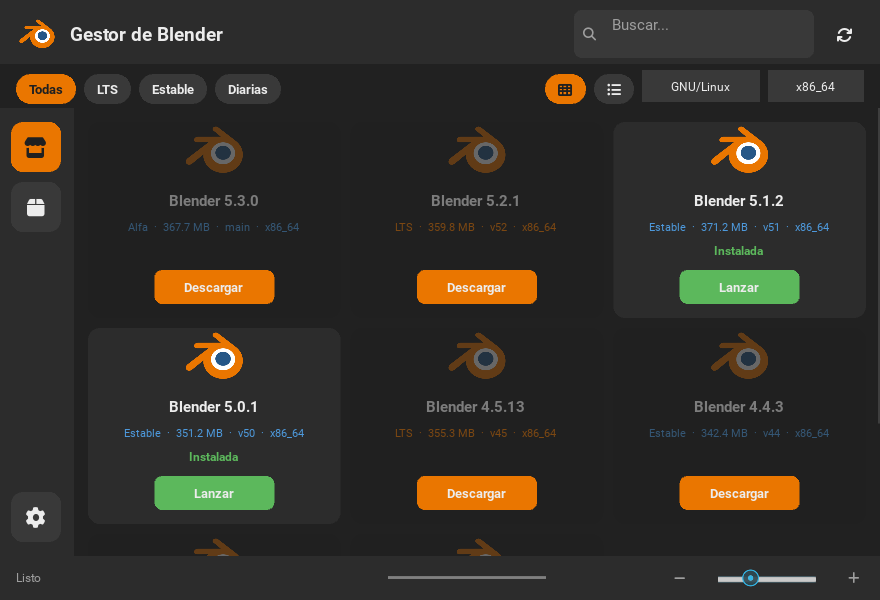
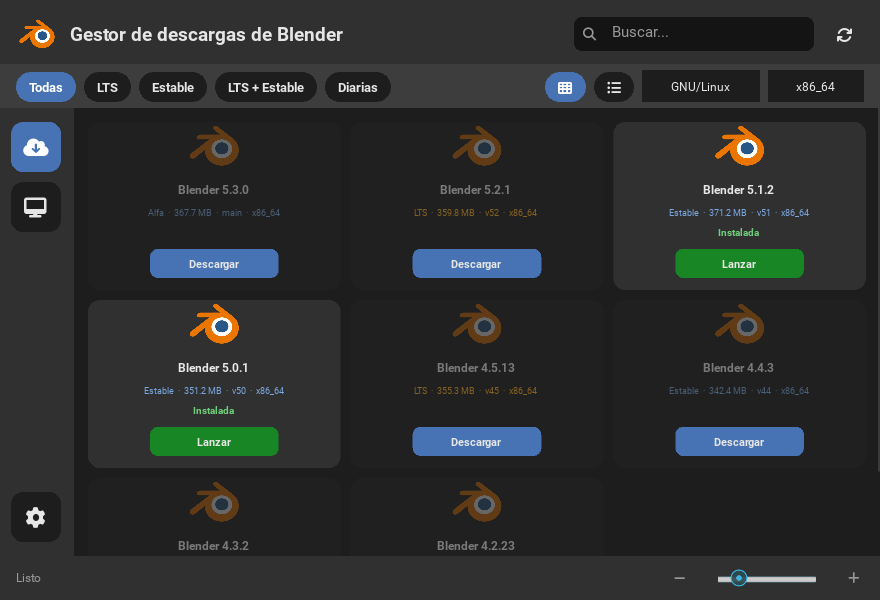
feat: profundidad de grises estilo Blender, iconos y barra de filtros
Jerarquia de grises (fondo oscuro, paneles/ barras y botones como pestanas, campos hundidos), botones neutros grises con pulsado azul, buscador mas bajo, barra de filtros clara con botones oscuros, iconos de nube (tienda) y ordenador (instaladas) y panel de ajustes con fondo propio.

diff --git a/src/ui/theme.py b/src/ui/theme.py
@@ -1,8 +1,15 @@
 """Paleta de colores, tipografías y registro de la fuente de iconos.
 
 Los colores imitan el *tema oscuro por defecto* de Blender (definido en el
-archivo ``userdef_default_theme.c`` de su código fuente). De ahí salen los
-grises, el azul de selección (#4772b3) y los colores de estado.
+archivo ``userdef_default_theme.c`` de su código fuente).
+
+La idea de profundidad es la de Blender:
+
+* el **fondo** de la ventana es el gris más oscuro;
+* las **barras** (cabecera, barra lateral y de estado) y los **paneles/tarjetas**
+  van un escalón por encima;
+* los **botones** neutros son gris oscuro, como las pestañas de Blender;
+* los **campos de texto** quedan hundidos (más oscuros que su panel).
 
 Todos los valores van en RGBA entre 0 y 1, como espera Kivy.
 """
@@ -11,12 +18,14 @@ from kivy.core.text import LabelBase
 
 from paths import ASSETS_DIR
 
-# --- Grises base del tema de Blender ---
-BG = (0x1D / 255, 0x1D / 255, 0x1D / 255, 1)          # fondo de ventana / barras
-SURFACE = (0x30 / 255, 0x30 / 255, 0x30 / 255, 1)     # paneles y tarjetas
-SURFACE_ALT = (0x54 / 255, 0x54 / 255, 0x54 / 255, 1)  # botones / widgets
-BORDER = (0x3D / 255, 0x3D / 255, 0x3D / 255, 1)      # contornos
-FIELD = (0x1D / 255, 0x1D / 255, 0x1D / 255, 1)       # campos de texto
+# --- Jerarquía de grises (de más profundo a más elevado) ---
+BG = (0x1D / 255, 0x1D / 255, 0x1D / 255, 1)        # fondo de la ventana (el más oscuro)
+FIELD = (0x14 / 255, 0x14 / 255, 0x14 / 255, 1)     # campos de texto (hundidos)
+BUTTON = (0x1D / 255, 0x1D / 255, 0x1D / 255, 1)    # botones neutros (como pestañas de Blender)
+SURFACE = (0x30 / 255, 0x30 / 255, 0x30 / 255, 1)   # paneles y tarjetas
+CHROME = (0x30 / 255, 0x30 / 255, 0x30 / 255, 1)    # cabecera, barra lateral y de estado
+SURFACE_ALT = (0x3D / 255, 0x3D / 255, 0x3D / 255, 1)  # hover / contornos suaves
+BORDER = (0x3D / 255, 0x3D / 255, 0x3D / 255, 1)
 
 # --- Texto ---
 TEXT = (0xE6 / 255, 0xE6 / 255, 0xE6 / 255, 1)
@@ -27,7 +36,9 @@ TEXT_SEL = (1.0, 1.0, 1.0, 1)
 ACCENT = (0x47 / 255, 0x72 / 255, 0xB3 / 255, 1)      # azul de selección
 ACCENT_DARK = (0x3A / 255, 0x5F / 255, 0x96 / 255, 1)
 SUCCESS = (0x18 / 255, 0x86 / 255, 0x25 / 255, 1)     # verde (lanzar)
+SUCCESS_DARK = (0x0F / 255, 0x5A / 255, 0x19 / 255, 1)
 DANGER = (0x99 / 255, 0x16 / 255, 0x16 / 255, 1)      # rojo (desinstalar)
+DANGER_DARK = (0x6E / 255, 0x10 / 255, 0x10 / 255, 1)
 INFO = (0x28 / 255, 0x48 / 255, 0x7D / 255, 1)        # azul apagado (fondos)
 WARNING = (0xFF / 255, 0xAF / 255, 0x23 / 255, 1)     # naranja (LTS)
 

diff --git a/src/ui/widgets.py b/src/ui/widgets.py
@@ -34,7 +34,7 @@ from services import api, detector, installed as installed_service, settings as 
 from services.downloader import Downloader
 from services.extractor import extract
 from services.launcher import Launcher
-from ui.theme import MUTED, SURFACE_ALT
+from ui.theme import ACCENT, BUTTON, MUTED
 from ui.tooltip import HoverBehavior
 
 # Etiquetas visibles del selector de sistema operativo -> identificador interno
@@ -64,9 +64,11 @@ class SideButton(HoverBehavior, ToggleButton):
 class CardButton(HoverBehavior, Button):
     """Botón de acción dentro de las tarjetas (descargar, lanzar, examinar...)."""
 
-    # Color de fondo configurable. Por defecto gris (como los widgets de
-    # Blender); descargar usa azul, lanzar verde y desinstalar rojo.
-    button_color = ListProperty(list(SURFACE_ALT))
+    # Colores configurables: por defecto un botón neutro oscuro (como las
+    # pestañas de Blender) que se ilumina en azul al pulsarlo. Descargar,
+    # lanzar y desinstalar sobrescriben ambos colores.
+    button_color = ListProperty(list(BUTTON))
+    pressed_color = ListProperty(list(ACCENT))
 
 
 class HoverButton(HoverBehavior, Button):

diff --git a/src/ui/icons.py b/src/ui/icons.py
@@ -4,8 +4,8 @@ Cada constante es un carácter Unicode privado de la fuente. Se usan desde el
 .kv así:  text: icons.STORE  y  font_name: theme.ICON_FONT
 """
 
-STORE = "\uf54e"
-INSTALLED = "\uf466"
+STORE = "\uf0ed"      # nube con flecha de descarga
+INSTALLED = "\uf108"  # ordenador de sobremesa
 SETTINGS = "\uf013"
 DOWNLOAD = "\uf019"
 LAUNCH = "\uf04b"
